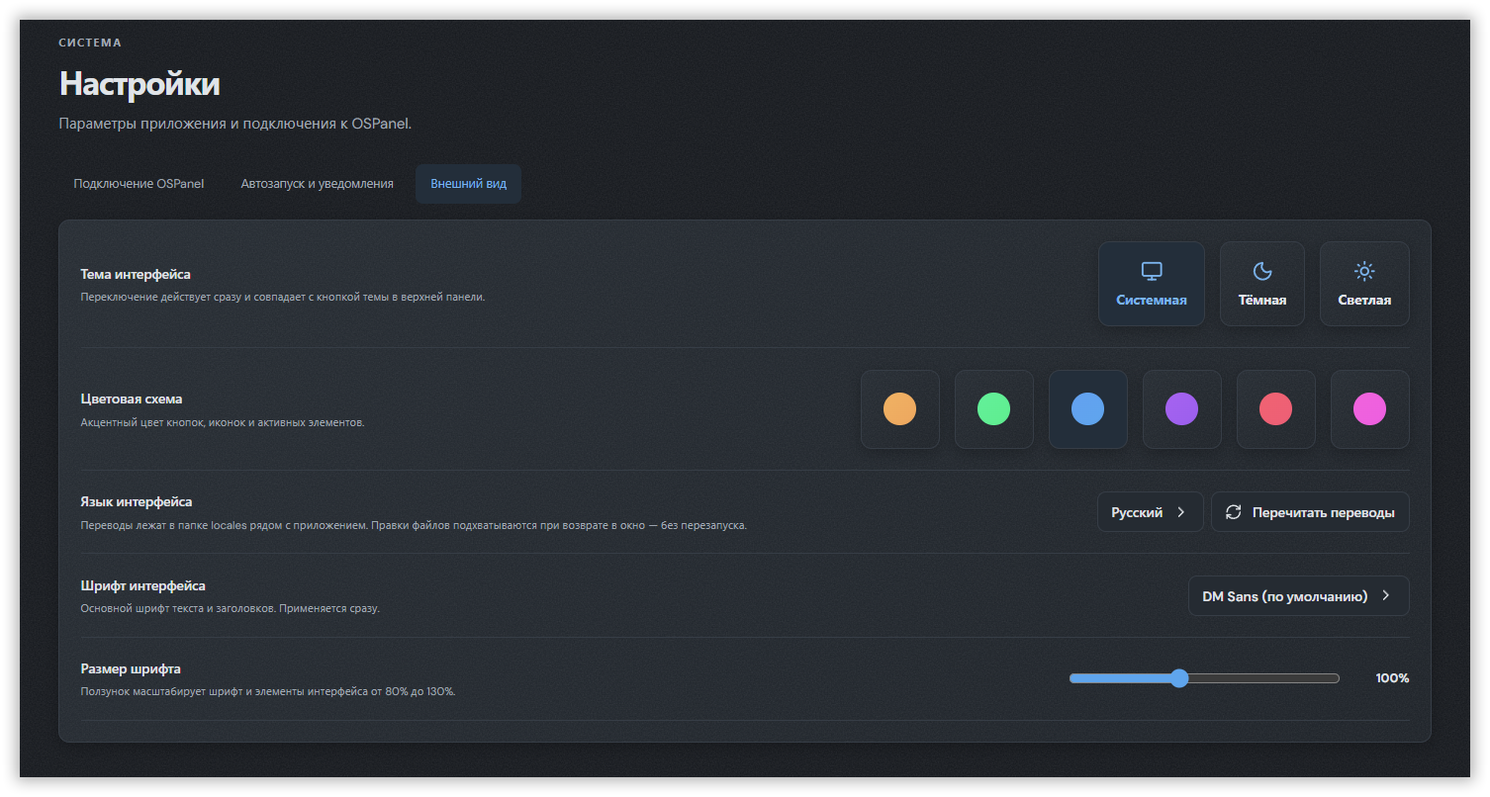
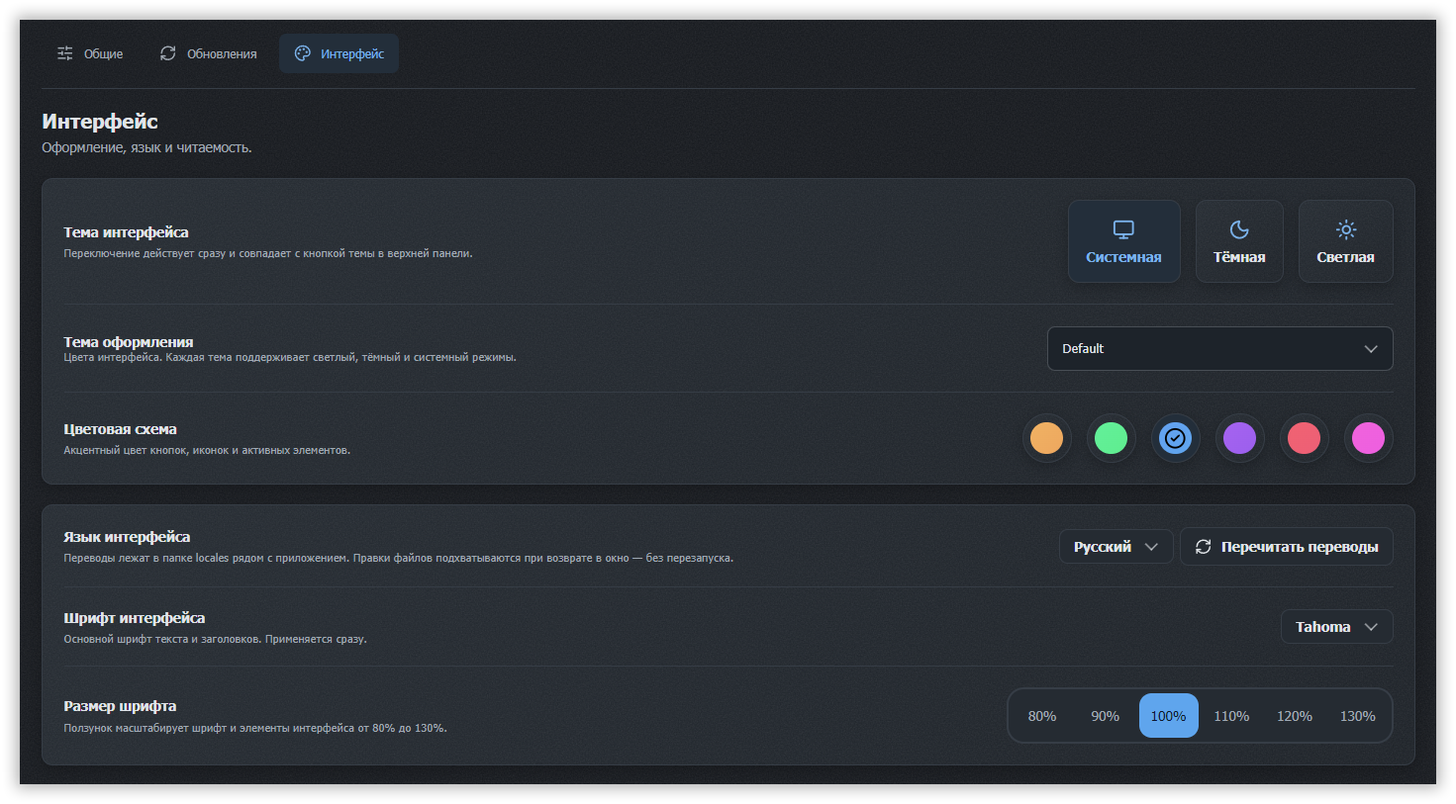
Update posts/osp-control

diff --git a/docs/posts/osp-control/index.md b/docs/posts/osp-control/index.md
@@ -1,8 +1,9 @@
 ---
 title: 'OSP Control'
-description: 'Обзор графической панели для OSPanel 6: управление сервисами, проектами, конфигурациями, меню панели, журналами и резервными копиями.'
+description: 'Обзор графической панели для OSPanel 6: модули и их обновления, проекты, шаблоны и заготовки, настройки проекта, диагностика, хосты, меню панели, журналы и резервные копии.'
 slug: osp-control
 date: 2026-10-13
+update: 2026-11-20
 links:
   - posts/vozmozhnosti-open-server-panel-6/index.md
 tags:
@@ -18,82 +19,172 @@ tags:
 
 ## Установка
 
-Сборки приложения ищем в [разделе релизов][releases]. Портативная версия — это папка с `osp-control.exe` и переводами во вложенном каталоге `locales`: распаковываем архив и запускаем приложение.
+Сборки приложения ищем в [разделе релизов][releases]. Портативная версия — это папка с `osp-control.exe`, переводами во вложенном каталоге `locales` и пакетами заготовок в каталоге `starters`: распаковываем архив и запускаем приложение.
 
 Для начала работы:
 
-1. Устанавливаем и запускаем OSPanel 6, если ещё этого не сделали.
+1. Устанавливаем и запускаем [OSPanel 6](https://ospanel.io).
 2. Открываем OSP Control.
-3. Если путь к панели не определился автоматически, заходим в _Настройки_ и выбираем папку установки OSPanel, например, `C:\OSPanel`.
+3. Если путь к панели не определился автоматически, заходим в _Настройки_ и выбираем папку установки OSPanel, например, `D:\OSPanel`.
 4. Возвращаемся в _Обзор_ и нажимаем «Синхронизировать».
+
+Панель при этом не обязана быть запущена: приложение находит установку OSPanel по файлам на диске и показывает её версию. В таком режиме доступны настройки и создание профилей модулей, но те действия, которым нужен запущенный API панели, остаются недоступными.
 
 В Windows 11 [WebView2 Runtime предустановлен][webview2-faq], а на большинстве компьютеров с Windows 10 тоже уже есть. Обычно ничего дополнительно устанавливать не нужно. Если компонент всё же отсутствует, [устанавливаем версию Evergreen][webview2] с сайта Microsoft.
 
+Само приложение обновляется из интерфейса: кнопка с иконкой в шапке боковой панели открывает окно проверки обновлений, а найденная версия показывается уведомлением с заметками релиза и кнопкой «Обновить и перезапустить». Перед заменой файлов приложение сохраняет резервную копию прежнего исполняемого файла и папки переводов, а если новый интерфейс не подтвердил запуск — возвращает всё на место.
+
 ## Интерфейс
 
-Слева находится меню разделов, справа — рабочая область. _Обзор_, _Сервисы_, _Проекты_, _Конфигурации_, _Редактор меню_ и _Журналы_ всегда под рукой; настройки и резервные копии вынесены в отдельные пункты. Боковую панель можно свернуть до полоски с иконками, если хочется оставить больше места для содержимого.
+Слева находится меню разделов, справа — рабочая область. В группе _Рабочее пространство_ собраны _Обзор_, _Модули_, _Проекты_, _Конфигурации_, _Редактор меню_ и _Журналы_, в группе _Система_ — _Настройки_ и _Резервные копии_. У журналов, проектов и модулей есть счётчики: сколько ошибок в журнале, сколько проектов и сколько модулей запущено. Боковую панель можно свернуть до полоски с иконками, а в узком окне она сворачивается сама.
 
-В оформлении — карточки со скруглёнными углами, цветные индикаторы состояния, иконки действий и заметные кнопки. В тёмной теме используются тёмно-серые поверхности с тёплым оранжевым акцентом, в светлой — светлый фон и белые панели. Тему и акцентный цвет можно поменять под свой вкус.
+![Боковая панель OSP Control: быстрый доступ к возможностям приложения](sidebar.png#only-light)
+![Боковая панель OSP Control: быстрый доступ к возможностям приложения](sidebar_dark.png#only-dark)
 
-На главном экране видны:
+Над меню показан блок самой панели: её версия или пометка «Не обнаружена», если OSPanel не найдена, а рядом — кнопка открытия папки установки и проверки обновлений приложения.
 
-- Количество активных сервисов и общее число модулей
-- Количество проектов
-- Потребление оперативной памяти рабочими процессами модулей
-- Доступность портов и число проблем с ними
+В верхней панели собраны хлебные крошки, ссылка на документацию OSPanel, кнопка быстрого поиска и переключатели темы и языка — ими можно пользоваться, не заходя в настройки. Приложение работает в одном экземпляре: повторный запуск выводит на передний план уже открытое окно. Размер окна запоминается между запусками, а при первом открытии он подгоняется под рабочую область экрана. Внизу боковой панели есть карточка «Есть идеи?» со ссылкой на обсуждения проекта на GitHub.
 
-Ниже располагаются карточки сервисов и последние события из журнала панели. Можно сразу запустить нужный модуль или перейти к проектам, а при изменениях в самой OSPanel — обновить данные кнопкой «Синхронизировать».
+В оформлении — карточки со скруглёнными углами, цветные индикаторы состояния, иконки действий и заметные кнопки. Тёмная и светлая темы, акцентный цвет, шрифт и масштаб интерфейса выбираются в настройках; кроме исходного оформления доступны палитры DaisyUI.
 
 ![Главный экран OSP Control: метрики окружения, карточки сервисов и последняя активность](overview.png#only-light)
 ![Главный экран OSP Control: метрики окружения, карточки сервисов и последняя активность](overview_dark.png#only-dark)
 
+На главном экране видны:
+
+- Приветствие по времени суток с именем пользователя Windows
+- Количество активных модулей и общее число модулей
+- Количество проектов
+- Потребление оперативной памяти рабочими процессами модулей
+- Доступность портов и число проблем с ними
+
+Ниже располагаются карточки модулей и последние события из журнала панели. Можно сразу запустить нужный модуль или перейти к проектам, а при изменениях в самой OSPanel — обновить данные кнопкой «Синхронизировать».
+
+Отдельным блоком идёт «Совет дня»: подсказки по настройке окружения сменяют друг друга, а рядом есть кнопки, чтобы сразу перейти к настройкам, проектам, модулям или журналу.
+
 !!! tip "Совет"
 
-    По сочетаниям ++ctrl+k++ или ++slash++ открывается быстрый поиск по разделам и опциям. Например, можно набрать «язык» или «автозапуск» и перейти прямо к соответствующей настройке.
+    По сочетаниям ++ctrl+k++ или ++slash++ открывается быстрый поиск по разделам и опциям. Например, можно набрать «язык» или «автозапуск» и перейти прямо к соответствующей настройке, а «хосты» или «шаблоны» — открыть нужные редакторы из раздела проектов. Отсюда же запускается проверка обновлений приложения и модулей.
 
-## Сервисы
+## Модули
 
-Раздел _Сервисы_ показывает модули, установленные в вашей OSPanel. Они сгруппированы по назначению: веб-серверы, языки и среды выполнения, базы данных, кэш и очереди, DNS, почта, инструменты и прочее. Можно оставить на экране одну группу или свернуть ненужные.
+Раздел _Модули_ показывает модули, установленные в вашей OSPanel. Они сгруппированы по назначению: веб-серверы, языки и среды выполнения, базы данных, кэш и очереди, DNS и сеть, почта, инструменты и прочее. Можно оставить на экране одну группу или свернуть ненужные.
 
-В строке модуля видны его название, версия, порт и состояние. Отсюда запускаем и останавливаем сервисы, а через меню действий — перезапускаем отдельный модуль или копируем его имя. Кнопка «Перезапустить всё» пригодится, когда нужно перезапустить все активные сервисы.
-
-Например, для работы над PHP-проектом выбираем нужную версию PHP, веб-сервер и MariaDB. Для другого сайта можно использовать другую версию PHP — все установленные варианты остаются в общем списке.
+У каждой группы своя сводка: все работают, работают {k} из {n} или есть проблемы. Рядом с модулями показывается состояние синхронизации с панелью и кнопка «Проверить снова».
 
 ![Раздел «Сервисы»: группы модулей, версии, порты, индикаторы состояния и кнопки управления](services.png#only-light)
 ![Раздел «Сервисы»: группы модулей, версии, порты, индикаторы состояния и кнопки управления](services_dark.png#only-dark)
 
-В версии 0.2.0 добавилась возможность проверять и обновлять установленные версии PHP напрямую с официального сайта.
+В строке модуля видны его название, версия, порт и состояние. Отсюда запускаем и останавливаем сервисы, а через меню действий — перезапускаем отдельный модуль, открываем его в браузере, оболочке, консоли или в проводнике либо копируем имя. Кнопка «Перезапустить всё» пригодится, когда нужно перезапустить все активные сервисы. Пока панель перезапускается, действия с модулями временно приостановлены, чтобы не спорить с ней за одни и те же файлы.
+
+Например, для работы над PHP-проектом выбираем нужную версию PHP, веб-сервер и MariaDB. Для другого сайта можно использовать другую версию PHP — все установленные варианты остаются в общем списке.
+
+Проверять и обновлять установленные версии PHP, Apache, Nginx и Caddy можно прямо из приложения. Архивы сверяются по SHA-256, перед заменой создаётся полная резервная копия модуля, а прерванная операция восстанавливается. Остановленные веб-серверы после обновления остаются остановленными.
+
+Обновления собраны в отдельной панели: видно, на каком шаге идёт процесс — подготовка, остановка модуля, резервная копия, загрузка, замена, проверка и откат, — а если что-то пошло не так, модуль можно восстановить из сделанной копии.
+
+Источники обновлений задаются отдельно для каждого семейства модулей: это могут быть релизы GitHub или HTTPS-каталоги Windows-сборок с контрольными суммами. Адресов может быть до 32 на семейство, проверки идут сверху вниз, а пустой список отключает проверку для этого семейства.
+
+![Настройка источников обновления модулей в OSP Control](update_sources.png#only-light)
+![Настройка источников обновления модулей в OSP Control](update_sources_dark.png#only-dark)
+
+У модуля может быть несколько профилей с разными настройками и шаблонами конфигураций. Профиль можно создать, продублировать, переименовать и удалить — перед любым изменением настроек создаётся резервная копия. Данные профиля можно очистить до заводских или скопировать из другого профиля, а «Применить» и «Активировать» перезапускают панель и переключают модуль на нужные настройки.
 
 ## Проекты
 
-Локальные сайты представлены в виде таблицы: домен и путь к папке, выбранное окружение, состояние SSL и доступные действия. При большом количестве сайтов пригодятся поиск и фильтры по сертификату, версии PHP и HTTP-движку.
+Локальные сайты представлены в виде таблицы: домен и путь к папке, выбранное окружение, состояние TLS, метки и доступные действия. У каждого проекта видно, когда менялись файлы, — «Сегодня», «Вчера» или «Ранее», а последний изменённый файл можно запросить отдельно. Иконка сайта подтягивается из самого проекта, а если её получить не удалось, показывается глобус.
+
+При большом количестве сайтов пригодятся поиск по доменам, путям и меткам (`#метка` находит точное совпадение), фильтры по сертификату, версии PHP, HTTP-движку и меткам, а также сортировка по дате изменения, домену или названию меток.
+
+Метки — цветные ярлыки, до 12 на проект и до 32 символов в каждом, у каждого свой цвет. Их можно назначать и снимать сразу у нескольких проектов, а фильтр по метке отбирает только нужные сайты.
+
+![Работа с метками проектов в OSP Control](project_tags.png#only-light)
+![Работа с метками проектов в OSP Control](project_tags_dark.png#only-dark)
 
 Из строки проекта можно:
 
 - Открыть сайт в браузере
+- Открыть консоль проекта
 - Перейти в папку проекта
 - Открыть проект в одном из обнаруженных редакторов
 - Скопировать домен или путь к файлам
 - Выбрать версии модулей
 - Включить или отключить TLS для домена
+- Переименовать домен или удалить проект
+- Открыть настройки проекта
 
-![Раздел «Проекты»: список доменов, окружение, состояние SSL, фильтры и меню действий](projects.png#only-light)
-![Раздел «Проекты»: список доменов, окружение, состояние SSL, фильтры и меню действий](projects_dark.png#only-dark)
+Переименование меняет папку `home/<домен>` и домен в `project.ini`. Метки и версии модулей при этом сохраняются, а перед изменением создаётся копия настроек проекта. Удаление проекта, наоборот, убирает папку `home/<домен>` вместе со всем содержимым.
 
 ### Создание проекта
 
-Нажимаем «Новый проект», указываем домен, например, `my-project.local`, выбираем HTTP-движок, версию PHP и, при необходимости, Node.js. Списки вариантов составляются из модулей, которые уже есть в вашей OSPanel.
+Нажимаем «Новый проект», указываем домен, например, `my-project.test`, выбираем HTTP-движок, версию PHP и, при необходимости, Node.js. Списки вариантов составляются из модулей, которые уже есть в вашей OSPanel.
+
+Отдельный выбор — шаблон проекта: пустой проект, статический HTML-сайт или заготовка под PHP-приложение, Laravel, WordPress, Symfony, 1С-Битрикс, SMF и Node.js. В предпросмотре видно, сколько файлов и каталогов появится и какие модули потребуются — если нужного модуля нет, приложение скажет об этом прямо в окне. Если заготовке нужна база данных, её настройка переносится в окно создания: выбираем движок (MySQL, MariaDB, PostgreSQL или SQLite), имя базы и учётные данные.
+
+Версии Node.js приложение берёт из дополнения NVM: если подходящих версий нет, окно подскажет команду установки.
 
 Приложение создаст папку `home/my-project.local` и конфигурацию проекта. После создания можно перезапустить панель прямо из уведомления, чтобы новый домен появился в её списке, и разместить в папке файлы своего сайта.
 
 ![Создание проекта: имя домена и выпадающие списки HTTP-движка, PHP и Node.js](create_project.png#only-light)
 ![Создание проекта: имя домена и выпадающие списки HTTP-движка, PHP и Node.js](create_project_dark.png#only-dark)
 
-### Выбор окружения
+### Установка приложений
 
-Для существующего сайта открываем меню «Версии модулей». В отдельном окне выбираем веб-сервер, версии PHP и Node.js. Рядом с вариантами отображаются подсказки о глобальных настройках панели, чтобы было понятнее, какое окружение получит проект.
+У заготовок с установкой в обзоре проекта появляется соответствующая кнопка. «Установить Laravel» выполняет `composer create-project` выбранным модулем PHP, «Установить Symfony» ставит скелет проекта с рецептами flex, а «Установить WordPress» и «Установить SMF» скачивают официальные архивы, сверяют контрольную сумму и распаковывают их в публичный каталог.
 
-Так можно закрепить за старым сайтом одну версию PHP, а за новым — другую. Настройки сохраняются в `.osp/project.ini` внутри папки сайта и применяются после автоматического перезапуска соответствующих модулей OSPanel. Подробности о настройке проектов есть в [обзоре самой панели](../vozmozhnosti-open-server-panel-6/index.md#sozdanie-proekta).
+Установка идёт в отдельном временном каталоге, а затем переносится в корень проекта с сохранением `.osp`. Если в заготовке появились свои файлы или изменения, замена отменяется и проект остаётся нетронутым. Исходная заготовка сохраняется в `backups/starters`, а неудачная установка оставляет проект в рабочем состоянии.
+
+Для Laravel и Symfony дополнительно настраивается база данных: она создаётся через клиент выбранного модуля, а реквизиты подключения попадают в `.env`. Laravel по умолчанию использует именованный файл SQLite. Локальные реквизиты хранятся в `.osp/database.json`, который исключён из Git.
+
+Инструкции и стартовые страницы создаются на языке интерфейса в момент создания проекта, а последующая смена языка уже не меняет существующие файлы.
+
+### Шаблоны проектов
+
+Кнопка «Шаблоны проектов» открывает редактор пакетов заготовок из папки `starters`: основные параметры (название, описание, дальнейшие шаги, предпочитаемый веб-сервер, каталоги проекта и сайта, дополнительные ключи `project.ini`), конфигурации Nginx, Apache и Caddy с подсветкой синтаксиса, файлы и каталоги заготовки, параметры базы данных, параметры установки и исходный `starter.json`.
+
+![Выбираем подходящий шаблон-заготовку для создания нового проекта в OSP Control](starters.png#only-light)
+![Выбираем подходящий шаблон-заготовку для создания нового проекта в OSP Control](starters_dark.png#only-dark)
+
+Отдельная вкладка «Установка» описывает, как именно приложение ставится: движок (Composer или архив), фазы установки, адрес архива и контрольную сумму, предел размера файла, переменные окружения и случайные значения, файлы, которые нужно сохранить, и готовые шаблоны конфигурации.
+
+Встроенные шаблоны «Пустой проект» и «Статический сайт» только для чтения. Штатные заготовки можно дублировать, править, восстанавливать к исходному состоянию или удалять, а новые — создать с нуля. Правки можно вносить и прямо на диске: папка пересканируется при повторном открытии редактора.
+
+Обновление приложения папку `starters` не трогает: удалённые и изменённые заготовки остаются, а для штатных предлагается кнопка «Вернуть исходную версию». Если папку удалить целиком, приложение использует встроенный набор заготовок.
+
+### Настройки проекта
+
+Название проекта или пункт «Настройки проекта» в меню строки открывают рабочее пространство проекта с вкладками:
+
+- _Обзор_ — домены, каталоги и окружение, а также инструкция по проекту, которую можно открыть во внешнем редакторе
+- _Домены_ — несколько доменов на общую папку, псевдонимы, включение домена, категория в меню OSPanel
+- _Окружение_ — версии модулей, команда запуска приложения, кодировка консоли, переменные среды из `.osp/env.ini` и настройки PHP в `.user.ini`
+- _Веб-сервер_ — каталог проекта и публичный каталог, адрес открытия, IP-адреса, порты, TLS с файлами сертификата и backend-прокси
+- _Конфигурации_ — конфигурационные фрагменты домена для Nginx, Apache и Caddy с подсветкой синтаксиса
+- _Файлы приложения_ — конфигурация приложения; вкладка появляется, только когда такие файлы есть
+- _Меню_ — меню проекта
+- _Задания_ — задания по расписанию
+- _Диагностика_ — проверки проекта
+
+![Детально настраиваем выбранный проект в OSP Control](project_config.png#only-light)
+![Детально настраиваем выбранный проект в OSP Control](project_config_dark.png#only-dark)
+
+Файл `.user.ini` действует для каталога проекта и всех вложенных подкаталогов, а сам PHP может помнить его несколько минут — до истечения `user_ini.cache_ttl` или перезапуска модуля.
+
+Перед сохранением каждого файла создаётся точная резервная копия в `backups/project-settings`, а внешние изменения обнаруживаются до записи. Для применения настроек перезапускается OSPanel.
+
+### Задания
+
+Вкладка _Задания_ редактирует `.osp/tasks.ini` визуально: добавляем, дублируем, удаляем и переименовываем задания, включаем и выключаем их, выбираем готовое расписание или заполняем пять полей cron. Поддерживаются `*`, списки (`1,3`), диапазоны (`1-5`) и шаг (`*/5`), а дни недели нумеруются по правилам OSPanel, где 1 — понедельник, 7 — воскресенье.
+
+Кнопка «Запустить сейчас» выполняет задание вручную и показывает результат: код завершения, стандартный вывод и поток ошибок. Задания выполняются в каталоге проекта, а для работы в его окружении команду можно обернуть в `cmd.exe /c "osp project {host} & ваша-команда"`.
+
+Черновики, в том числе незавершённый ввод, сохраняются при переходе между вкладками и доменами. Кнопка «Сохранить» (или ++ctrl+s++) проверяет определения и сохраняет комментарии, другие домены, BOM и переводы строк, а изменения применяются после перезапуска OSPanel.
+
+### Диагностика
+
+Вкладка _Диагностика_ выполняет проверки только на чтение для выбранного сохранённого домена: читает `project.ini` и состояние проекта, сверяет необходимые модули, проверяет каталоги проекта и сайта, DNS, TCP-соединения с HTTP, HTTPS и backend, наличие файлов TLS, определения меню и заданий и последние 64 КиБ журнала ошибок домена.
+
+Результаты делятся на успешные, замечания, проблемы и непроверенные, содержат подсказки по исправлению и ссылки на нужные вкладки проекта; есть фильтр проблем. Проверки не запускают скрипты проекта, не запрашивают страницы приложения, не меняют файлы и не перезапускают панель автоматически.
 
 ## Конфигурации
 
@@ -106,9 +197,18 @@ tags:
 ![Раздел «Конфигурации»: список файлов с фильтром по модулю и просмотр содержимого с подсветкой синтаксиса](configs.png#only-light)
 ![Раздел «Конфигурации»: список файлов с фильтром по модулю и просмотр содержимого с подсветкой синтаксиса](configs_dark.png#only-dark)
 
+## Хосты
+
+Кнопка «Хосты» на странице _Проекты_ открывает системный файл `hosts` в виде таблицы: IP-адрес, имена узлов, комментарий и источник записи. Записи можно включать и выключать, добавлять по одной или вставлять сразу блоком, а рядом доступен и текстовый режим для просмотра файла целиком.
+
+![Настраиваем хосты с помощью встроенного редактора в разделе проектов](hosts.png#only-light)
+![Настраиваем хосты с помощью встроенного редактора в разделе проектов](hosts_dark.png#only-dark)
+
+Применение затрагивает только сам файл: рядом с ним создаётся резервная копия, файл сохраняется в исходной кодировке, а DNS-кэш Windows очищается. Изменения вступают в силу сразу, перезапускать OSPanel не нужно — Windows лишь попросит права администратора. Если очистить кэш не получилось, hosts всё равно будет сохранён, а очистку можно повторить отдельно.
+
 ## Редактор меню
 
-В OSPanel есть собственное меню: командная строка, панель, просмотр журналов, быстрые действия модулей и запуск внешних программ. Но редактировать это меню не очень удобно. Поэтому в OSP Control 0.3.0 появился раздел _Редактор меню_ — визуальный редактор меню OSPanel без ручной правки шаблона `system/menu.dat`.
+В OSPanel есть собственное меню: командная строка, панель, просмотр журналов, быстрые действия модулей и запуск внешних программ. Но редактировать это меню не очень удобно. Поэтому в OSP Control есть отдельный раздел _Редактор меню_ — визуальный редактор меню OSPanel без ручной правки шаблона `system/menu.dat`.
 
 Редактор читает файл из установленной OSPanel и показывает его как дерево: слева структура, справа свойства выбранного пункта. Команды из пунктов при этом не выполняются — это только данные конфигурации.
 
@@ -118,6 +218,8 @@ tags:
 ### Структура
 
 В дереве видны все категории и пункты с общим счётчиком. Категории сворачиваются, а у каждой есть кнопка «+» — она добавляет пункт прямо в эту категорию.
+
+По дереву можно искать, кнопки «Развернуть всё» и «Свернуть всё» сворачивают категории, а состояние дерева запоминается между запусками приложения.
 
 Собственные категории создаются кнопкой «Категория» на панели инструментов. Вложенность поддерживается на один уровень, путь записывается через обратную косую черту: например, `Инструменты\Редакторы`. Пути категорий должны быть уникальными.
 
@@ -159,7 +261,7 @@ tags:
 
 Изменения применяются после перезапуска OSPanel: в уведомлении о сохранении есть кнопка, чтобы сделать это сразу.
 
-Отменить и повторить последнее изменение можно стрелками на панели инструментов. Внизу редактора видно, есть ли несохранённые изменения, а при попытке закрыть приложение с ними выводится предупреждение.
+Отменить и повторить последнее изменение можно стрелками на панели инструментов или сочетаниями ++ctrl+z++ и ++ctrl+y++. Внизу редактора видно, есть ли несохранённые изменения, а при попытке закрыть приложение с ними выводится предупреждение.
 
 !!! tip "Совет"
 
@@ -167,24 +269,30 @@ tags:
 
 ## Журналы
 
-Когда сайт не открывается или модуль ведёт себя странно, переходим в _Журналы_. Здесь выбираем журнал панели или домена, ищем нужную строку и переключаемся между вкладками «Все события», «Ошибки» и «Предупреждения».
+Когда сайт не открывается или модуль ведёт себя странно, переходим в _Журналы_. Здесь выбираем журнал панели или домена, ищем нужную строку и переключаемся между вкладками «Все события», «Ошибки» и «Предупреждения». Источники сгруппированы: домены отдельно, модули и панель — отдельно, а сам список ищется по названию.
 
-Есть автообновление и копирование отображаемых записей. Можно наблюдать за новыми событиями прямо в окне приложения, пока перезапускаете сервис или повторяете проблемный запрос. Счётчик ошибок отображается и возле пункта меню, поэтому заглянуть в журнал можно вовремя.
+Есть автообновление и копирование отображаемых записей — при желании можно скопировать журнал целиком. Можно наблюдать за новыми событиями прямо в окне приложения, пока перезапускаете сервис или повторяете проблемный запрос. Счётчик ошибок отображается и возле пункта меню, поэтому заглянуть в журнал можно вовремя.
+
+Журнал можно и очистить: текущий файл или все журналы сразу, с подтверждением. Сами файлы остаются на месте, поэтому модули продолжают писать в них новые события.
 
 ![Раздел «Журналы»: выбор источника, поиск, вкладки ошибок и предупреждений, автообновление](logs.png#only-light)
 ![Раздел «Журналы»: выбор источника, поиск, вкладки ошибок и предупреждений, автообновление](logs_dark.png#only-dark)
 
 ## Резервные копии
 
-В отдельном разделе собраны три вида копий:
+В отдельном разделе собраны четыре вида копий:
 
 | Что сохраняем | Что получаем |
 | ------------- | ------------ |
 | Конфигурации | Копию каталога `config` в ZIP-архиве |
 | Базы данных | SQL-дамп запущенного модуля MySQL, MariaDB или PostgreSQL |
 | Проекты | ZIP-архив файлов выбранного сайта |
+| Меню OSPanel | Точную копию файла `system/menu.dat` |
 
-Для баз данных и проектов можно выбрать один объект или создать копии всех доступных. В списке отображаются тип копии, дата и размер; отсюда же восстанавливаем данные, удаляем ненужные копии или открываем папку с ними. Файлы хранятся в каталоге `backups` внутри установки OSPanel.
+![Создаем резервные копии или восстанавливаем их из архива в OSP Control](backups.png#only-light)
+![Создаем резервные копии или восстанавливаем их из архива в OSP Control](backups_dark.png#only-dark)
+
+Для баз данных и проектов можно выбрать один объект или создать копии всех доступных. В списке отображаются тип копии, дата и размер; отсюда же восстанавливаем данные, удаляем ненужные копии — сразу несколько за раз — или открываем папку с ними. Файлы хранятся в каталоге `backups` внутри установки OSPanel.
 
 Перед восстановлением приложение автоматически сохраняет текущее состояние. Это удобно, если после отката понадобится вернуться к более свежим настройкам или файлам.
 
@@ -193,15 +301,20 @@ tags:
     Для создания и восстановления дампа модуль базы данных должен быть запущен. Архив проекта не включает папки `node_modules` и `vendor`: зависимости при необходимости устанавливаем заново. База данных сохраняется отдельным дампом, поэтому для копии сайта вместе с его данными нужны оба вида копий.
 
 ![Раздел «Резервные копии»: создание копий конфигураций, дампов БД и архивов проектов, список сохранённых копий](backups.png#only-light)
-![Раздел «Резервные копии»: создание копий конфигураций, дампов БД и архивов проектов, список сохранённых копий](backups_dark.png#only-dark)
 
 ## Настройка под себя
 
-В настройках можно выбрать тёмную, светлую или системную тему, один из шести акцентных цветов, шрифт и масштаб интерфейса от 80% до 130%. Изменения применяются сразу — легко подобрать оформление и размер текста под свой монитор.
+Настройки разделены на три вкладки: _Общие_ (подключение к панели и поведение приложения), _Обновления_ (проверка новых версий приложения и модулей) и _Интерфейс_ (оформление, язык и читаемость).
 
-Доступны русский, английский, украинский, белорусский и испанский языки. Переводы лежат в папке `locales` рядом с приложением: при желании их можно поправить, а затем вернуться в окно или нажать «Перечитать переводы».
+В настройках оформления выбирается тема: исходная (Default), собственная (Custom) или одна из палитр DaisyUI. Каждая тема поддерживает светлый, тёмный и системный режимы, а кроме того — акцентный цвет, шрифт и масштаб интерфейса от 80% до 130%. Изменения применяются сразу — легко подобрать оформление и размер текста под свой монитор.
 
-Для повседневной работы есть автозапуск вместе с Windows, запуск модулей, закреплённых за проектами, и сворачивание в трей при закрытии окна. Вернуть окно можно через значок возле часов, полностью выйти — через его меню. Уведомления о результатах операций тоже можно включить или отключить.
+Доступны русский, английский, украинский, белорусский и испанский языки. Переводы лежат в папке `locales` рядом с приложением: при желании их можно поправить, а затем вернуться в окно или нажать «Перечитать переводы». Если в файле перевода опечатка — пропущен ключ, лишний ключ, переименованная переменная или неполный набор форм множественного числа, — приложение перечислит проблемные места и продолжит работать на встроенных переводах. Свой язык добавляется простой копией файла `de.json` в эту же папку — пересборка не нужна.
+
+Для повседневной работы есть автозапуск вместе с Windows, запуск OSPanel при старте приложения, запуск модулей, закреплённых за проектами, и сворачивание в трей при закрытии окна. Вернуть окно можно через значок возле часов, полностью выйти — через его меню; оттуда же создаётся новый проект. Уведомления о результатах операций тоже можно включить или отключить.
+
+Отдельно настраиваются проверки обновлений: приложение может проверять свои релизы при запуске, а для модулей — задать свои источники обновлений, по одному HTTPS-адресу в строке.
+
+Настройки, размер окна, метки проектов и их цвета хранятся в файле `settings.toml` рядом с исполняемым файлом. Его можно править вручную: комментарии и неизвестные ключи сохраняются, перед записью создаётся копия `settings.toml.bak`, а повреждённый файл приложение не перезаписывает молча.
 
 ![Настройки оформления OSP Control: светлая тема, акцентные цвета, выбор языка, шрифта и масштаба](settings.png#only-light)
 ![Настройки оформления OSP Control: светлая тема, акцентные цвета, выбор языка, шрифта и масштаба](settings_dark.png#only-dark)
@@ -210,9 +323,11 @@ tags:
 
 OSP Control поможет, если у вас несколько локальных сайтов с разными версиями PHP и хочется держать их окружение перед глазами. Открыть проект в редакторе, переключить модули, посмотреть ошибки и сохранить копию перед экспериментом — всё это доступно из одного окна.
 
-Собрать меню панели под себя — добавить ярлыки на редакторы и утилиты, разложить их по категориям — теперь можно прямо в OSP Control.
+Собрать меню панели под себя — добавить ярлыки на редакторы и утилиты, разложить их по категориям — можно прямо в OSP Control.
 
-Для установки самой среды и обновления её компонентов по-прежнему актуальны статьи [Возможности Open Server Panel 6](../vozmozhnosti-open-server-panel-6/index.md) и [Обновление компонентов Open Server](../obnovlenie-komponentov-open-server/index.md). А OSP Control можно использовать как удобную панельку для ежедневной работы с уже настроенным окружением.
+Отдельный сценарий — быстрый старт нового сайта: выбрали заготовку под Laravel, Symfony, WordPress или SMF, отметили базу данных и получили проект с настроенным окружением, а если что-то не так — диагностика подскажет, какая именно настройка мешает.
+
+Для установки самой среды и ручного обновления её компонентов по-прежнему актуальны статьи [Возможности Open Server Panel 6](../vozmozhnosti-open-server-panel-6/index.md) и [Обновление компонентов Open Server](../obnovlenie-komponentov-open-server/index.md). А OSP Control можно использовать как удобную панельку для ежедневной работы с уже настроенным окружением.
 
 ---
 
